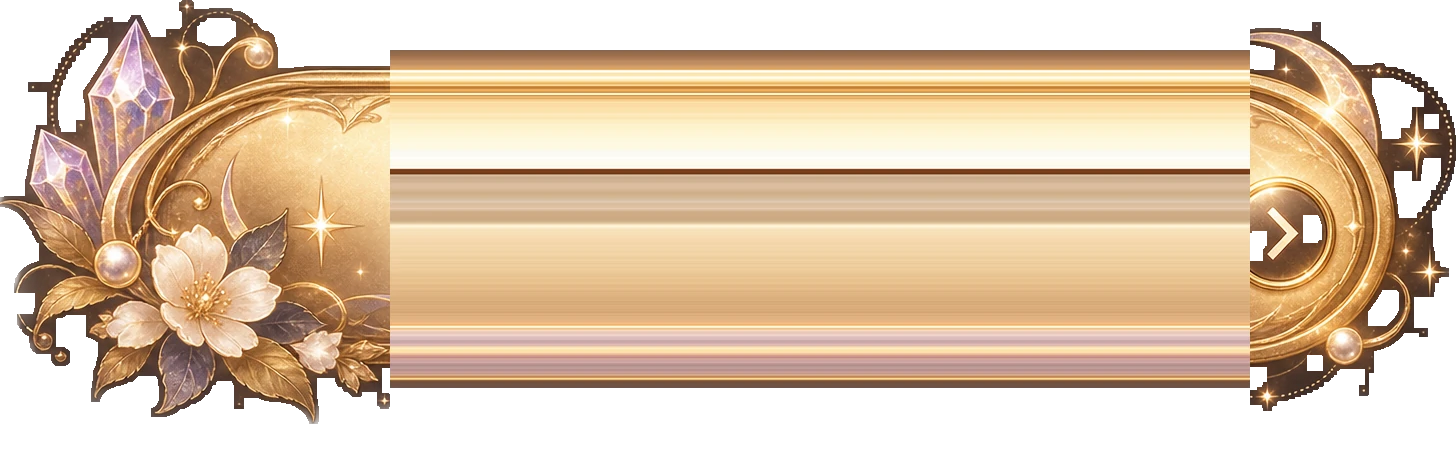
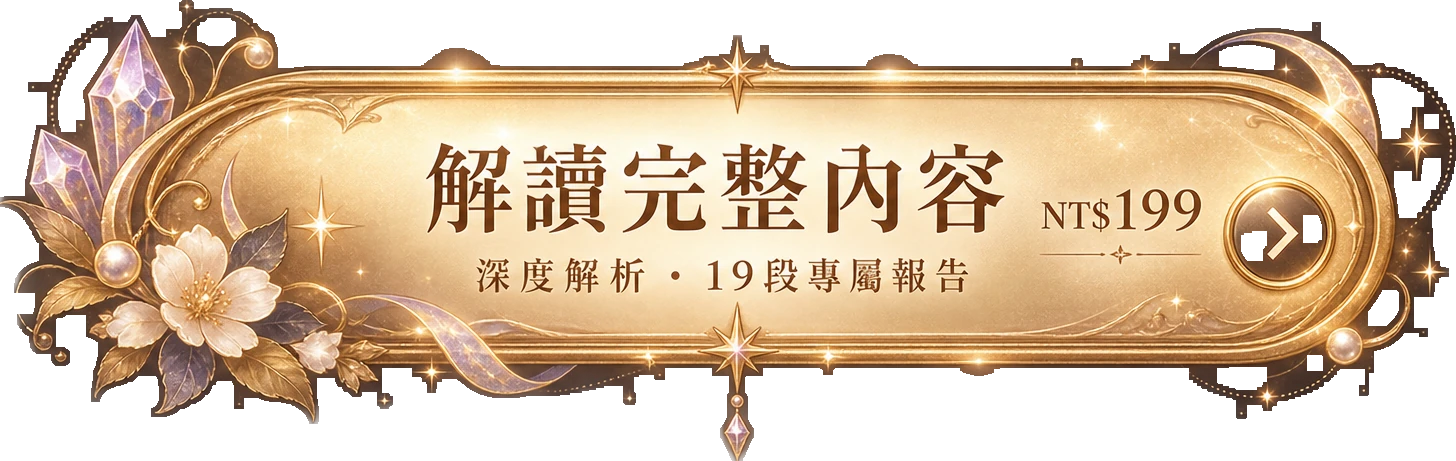
按鈕更新

diff --git a/yuanfen/index.html b/yuanfen/index.html
@@ -325,55 +325,34 @@ body.reading .lock-mark{
 
 /* 頁首拱門 */
 
-/* ── 主要按鈕：起盤（三段式，任意寬度不變形） ── */
-.btn-start{
-  position:relative; display:block; width:min(460px,100%); margin:0 auto;
-  aspect-ratio:1365/368; padding:0 96px 0 108px;
-  /* 備援：素材載不到時仍是一顆看得出來的按鈕 */
-  border:1px solid var(--gold); border-radius:999px;
-  background-color:rgba(217,189,130,.12);
-  background-image:
-    url('assets/btn-start-l.webp'),
-    url('assets/btn-start-r.webp'),
-    url('assets/btn-start-m.webp');
-  background-position:left center, right center, center center;
-  background-size:auto 100%, auto 100%, auto 100%;
-  background-repeat:no-repeat, no-repeat, repeat-x;
-  color:#58381f; font-family:var(--serif); font-size:clamp(21px,5vw,28px);
-  font-weight:500; letter-spacing:.3em; text-indent:.3em;
+/* ── 兩顆主要按鈕：文字已在素材上，HTML 端不放字 ── */
+.btn-img{
+  display:block; border:0; padding:0; background:transparent;
   cursor:pointer; -webkit-tap-highlight-color:transparent;
-  filter:drop-shadow(0 8px 26px rgba(0,0,0,.4));
+  width:min(480px,100%); margin:0 auto;
+  background-repeat:no-repeat; background-position:center; background-size:contain;
+  filter:drop-shadow(0 10px 30px rgba(0,0,0,.45));
   transition:filter .25s, transform .12s;
 }
-.btn-start:hover{filter:drop-shadow(0 8px 30px rgba(217,189,130,.3)) brightness(1.05)}
-.btn-start:active{transform:translateY(1px)}
-.btn-start:focus-visible{outline:2px solid var(--gold); outline-offset:8px}
+.btn-img span{                       /* 給螢幕閱讀器與素材載不到時 */
+  position:absolute; width:1px; height:1px; overflow:hidden;
+  clip:rect(0 0 0 0); clip-path:inset(50%); white-space:nowrap;
+}
+.btn-img:hover{filter:drop-shadow(0 10px 34px rgba(217,189,130,.34)) brightness(1.05)}
+.btn-img:active{transform:translateY(1px)}
+.btn-img:focus-visible{outline:2px solid var(--gold); outline-offset:10px; border-radius:999px}
+.btn-img[disabled]{filter:grayscale(.5) brightness(.75); cursor:default}
 
-/* ── 付費按鈕：整張使用（框體非等寬，不能切） ── */
-.btn-unlock{
-  position:relative; display:block; width:min(520px,100%); margin:0 auto;
-  aspect-ratio:1456/456; padding:0 130px 0 150px;
-  border:1px solid var(--gold); border-radius:999px;
-  background-color:rgba(217,189,130,.12);
-  background-image:url('assets/btn-unlock.webp');
-  background-position:center; background-size:100% 100%; background-repeat:no-repeat;
-  cursor:pointer; -webkit-tap-highlight-color:transparent;
-  filter:drop-shadow(0 8px 26px rgba(0,0,0,.4));
-  transition:filter .25s, transform .12s;
+#go{aspect-ratio:1365/368; background-image:url('assets/btn-start.webp')}
+#u-cta{aspect-ratio:1456/461; background-image:url('assets/btn-unlock.webp'); width:min(520px,100%)}
+
+/* 展開後：按鈕收起，改用一行文字 */
+.expanded-note{
+  display:none; text-align:center; color:var(--gold-soft);
+  font-family:var(--serif); font-size:17px; letter-spacing:.2em; margin:6px 0 0;
 }
-.btn-unlock b{
-  display:block; color:#58381f; font-family:var(--serif);
-  font-size:clamp(19px,4.6vw,26px); font-weight:500; letter-spacing:.2em;
-  line-height:1.2;
-}
-.btn-unlock small{
-  display:block; color:#8a5f3c; font-family:var(--sans);
-  font-size:clamp(11px,2.6vw,14px); letter-spacing:.1em; margin-top:8px;
-}
-.btn-unlock:hover{filter:drop-shadow(0 8px 30px rgba(217,189,130,.3)) brightness(1.05)}
-.btn-unlock:active{transform:translateY(1px)}
-.btn-unlock:focus-visible{outline:2px solid var(--gold); outline-offset:8px}
-.btn-unlock[disabled],.btn-start[disabled]{filter:grayscale(.45) brightness(.8); cursor:default}
+body.reading .expanded-note{display:block}
+body.reading #u-cta{display:none}
 
 /* 起盤動畫：羅盤 */
 .cta-wrap{display:flex; justify-content:center; margin-top:30px}
@@ -567,7 +546,7 @@ details.basis summary:focus-visible{outline:2px solid var(--gold); outline-offse
       </div>
     </div>
 
-    <button class="btn-start" id="go">開始測算</button>
+    <button class="btn-img" id="go"><span>開始測算</span></button>
     <p class="err" id="err" role="status"></p>
     <p class="privacy">不用註冊，不用留 email。兩組生日不會被儲存，也不會離開你的裝置——計算全部在這個頁面完成，關掉就不存在了。</p>
     <div class="promise">
@@ -621,7 +600,8 @@ details.basis summary:focus-visible{outline:2px solid var(--gold); outline-offse
       <p class="toc-h">目錄</p>
       <ol id="u-list"></ol>
       <p class="price-note" id="u-price"></p>
-      <button class="btn-unlock" id="u-cta"><b>解讀完整內容</b><small id="u-cta-sub">NT$199 · 19 段專屬報告</small></button>
+      <button class="btn-img" id="u-cta"><span>解讀完整內容 NT$199</span></button>
+      <p class="expanded-note">已展開　往下閱讀</p>
       <p class="preview-note">預覽模式：此版本尚未接金流，點擊可直接展開。</p>
     </div>
     <div id="r-report">
@@ -3225,8 +3205,6 @@ function reveal(a, b) {
   last = { result: r, a: freeA, b: freeB, full: yuanfen(a, b), scene };
   $('r-report').classList.remove('on');
   document.body.classList.remove('reading');
-  $('u-cta').querySelector('b').textContent = '解讀完整內容';
-  $('u-cta').querySelector('small').textContent = 'NT$199 · 19 段專屬報告';
   $('u-cta').disabled = false;
 
   $('r-score').textContent = '0';
@@ -3417,8 +3395,6 @@ $('u-cta').addEventListener('click', () => {
   });
   box.classList.add('on');
   document.body.classList.add('reading');
-  $('u-cta').querySelector('b').textContent = '已展開';
-  $('u-cta').querySelector('small').textContent = '往下閱讀';
   $('u-cta').disabled = true;
   box.scrollIntoView({ behavior: 'smooth', block: 'start' });
 });
